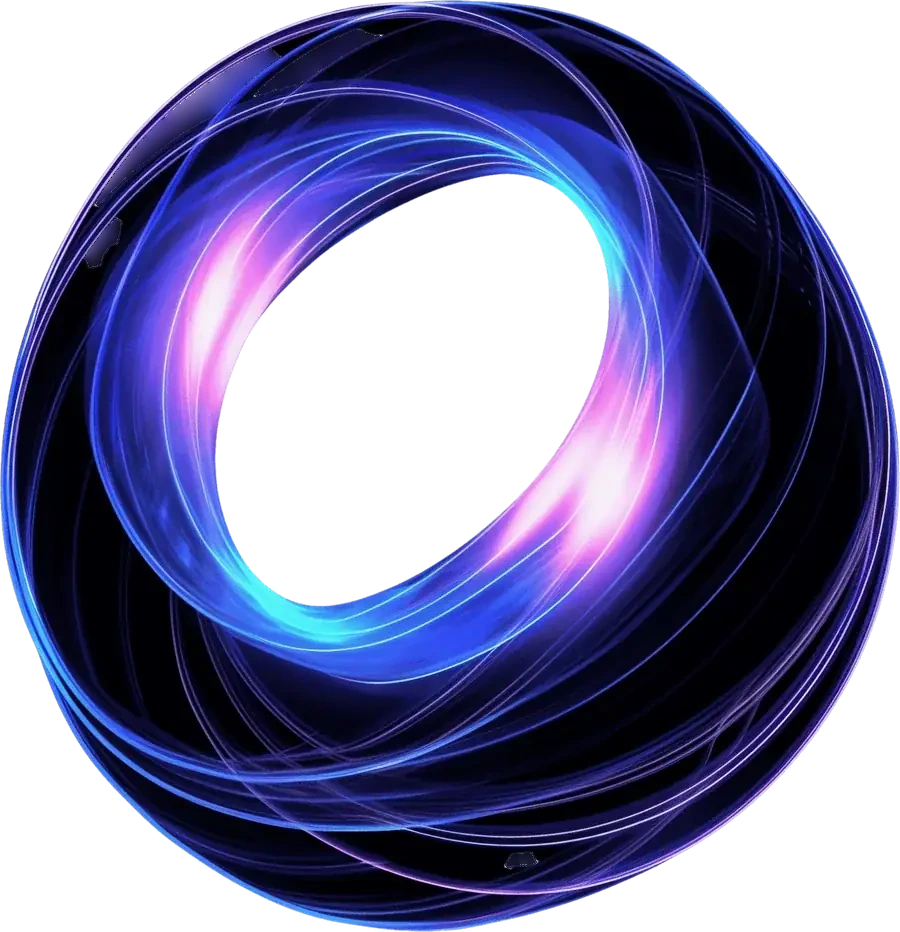
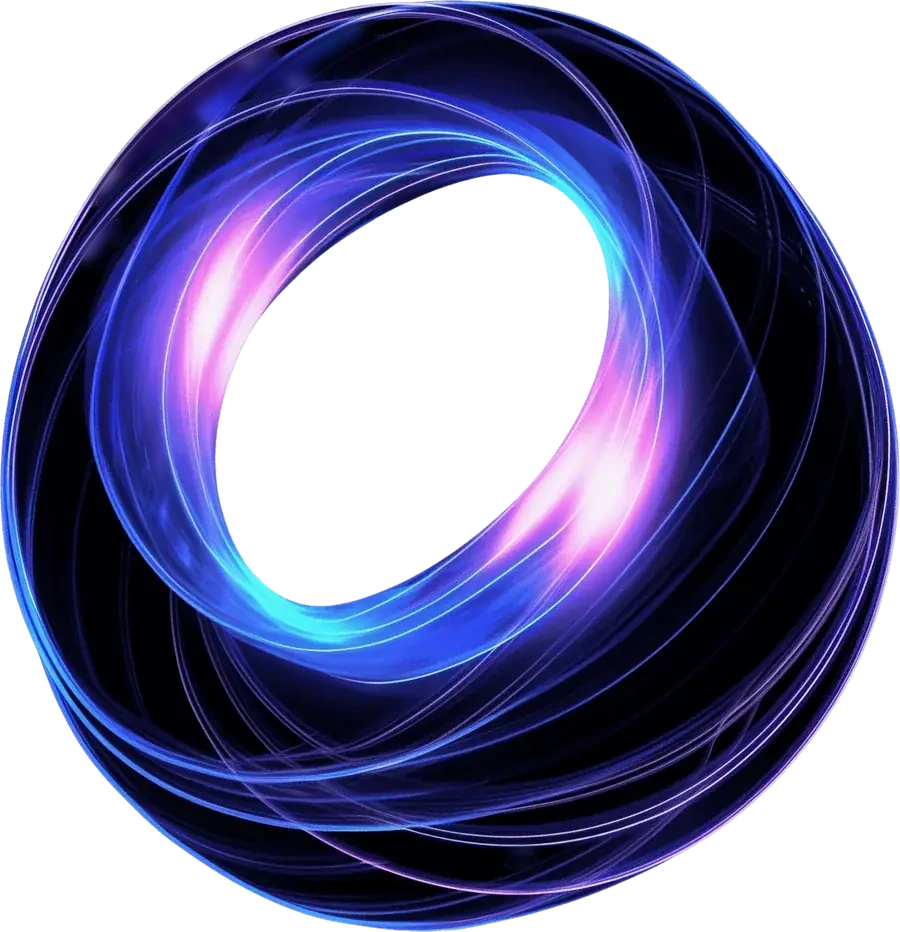
Rings: seamless tear fill for light-theme solids v1/v2 (grassfire diffusion, feathered edges) + cache-bust v7

Changed region(s): [[0.1244, 0.0311, 0.4356, 0.1867], [0.0933, 0.1867, 0.1244, 0.28], [0.56, 0.9024, 0.5911, 0.9335]]

diff --git a/artifacts/landing-page/src/App.tsx b/artifacts/landing-page/src/App.tsx
@@ -244,7 +244,7 @@ function Shape({ v, className = '', style, spin = 0, dir = 1, floatY = 0, floatD
   const solid = v === 1 || v === 2;
   const img = (variant: 'dark' | 'light') => (
     <motion.img
-      src={`/shapes/shape-v${v}${variant === 'light' && solid ? '-solid' : ''}.webp${variant === 'light' && solid ? '?v=6' : ''}`}
+      src={`/shapes/shape-v${v}${variant === 'light' && solid ? '-solid' : ''}.webp${variant === 'light' && solid ? '?v=7' : ''}`}
       alt=""
       width={w}
       height={h}
@@ -370,7 +370,7 @@ function BrandCursor() {
         </div>
         <div className="brand-cursor-fade f-ring">
           <img src="/shapes/shape-v1.webp" alt="" width={900} height={932} draggable={false} className="shape-img-dark" />
-          <img src="/shapes/shape-v1-solid.webp?v=6" alt="" width={900} height={932} draggable={false} className="shape-img-light" />
+          <img src="/shapes/shape-v1-solid.webp?v=7" alt="" width={900} height={932} draggable={false} className="shape-img-light" />
         </div>
         <div className="brand-cursor-fade f-orb">
           <img src="/shapes/shape-v3.webp" alt="" width={640} height={640} draggable={false} />
